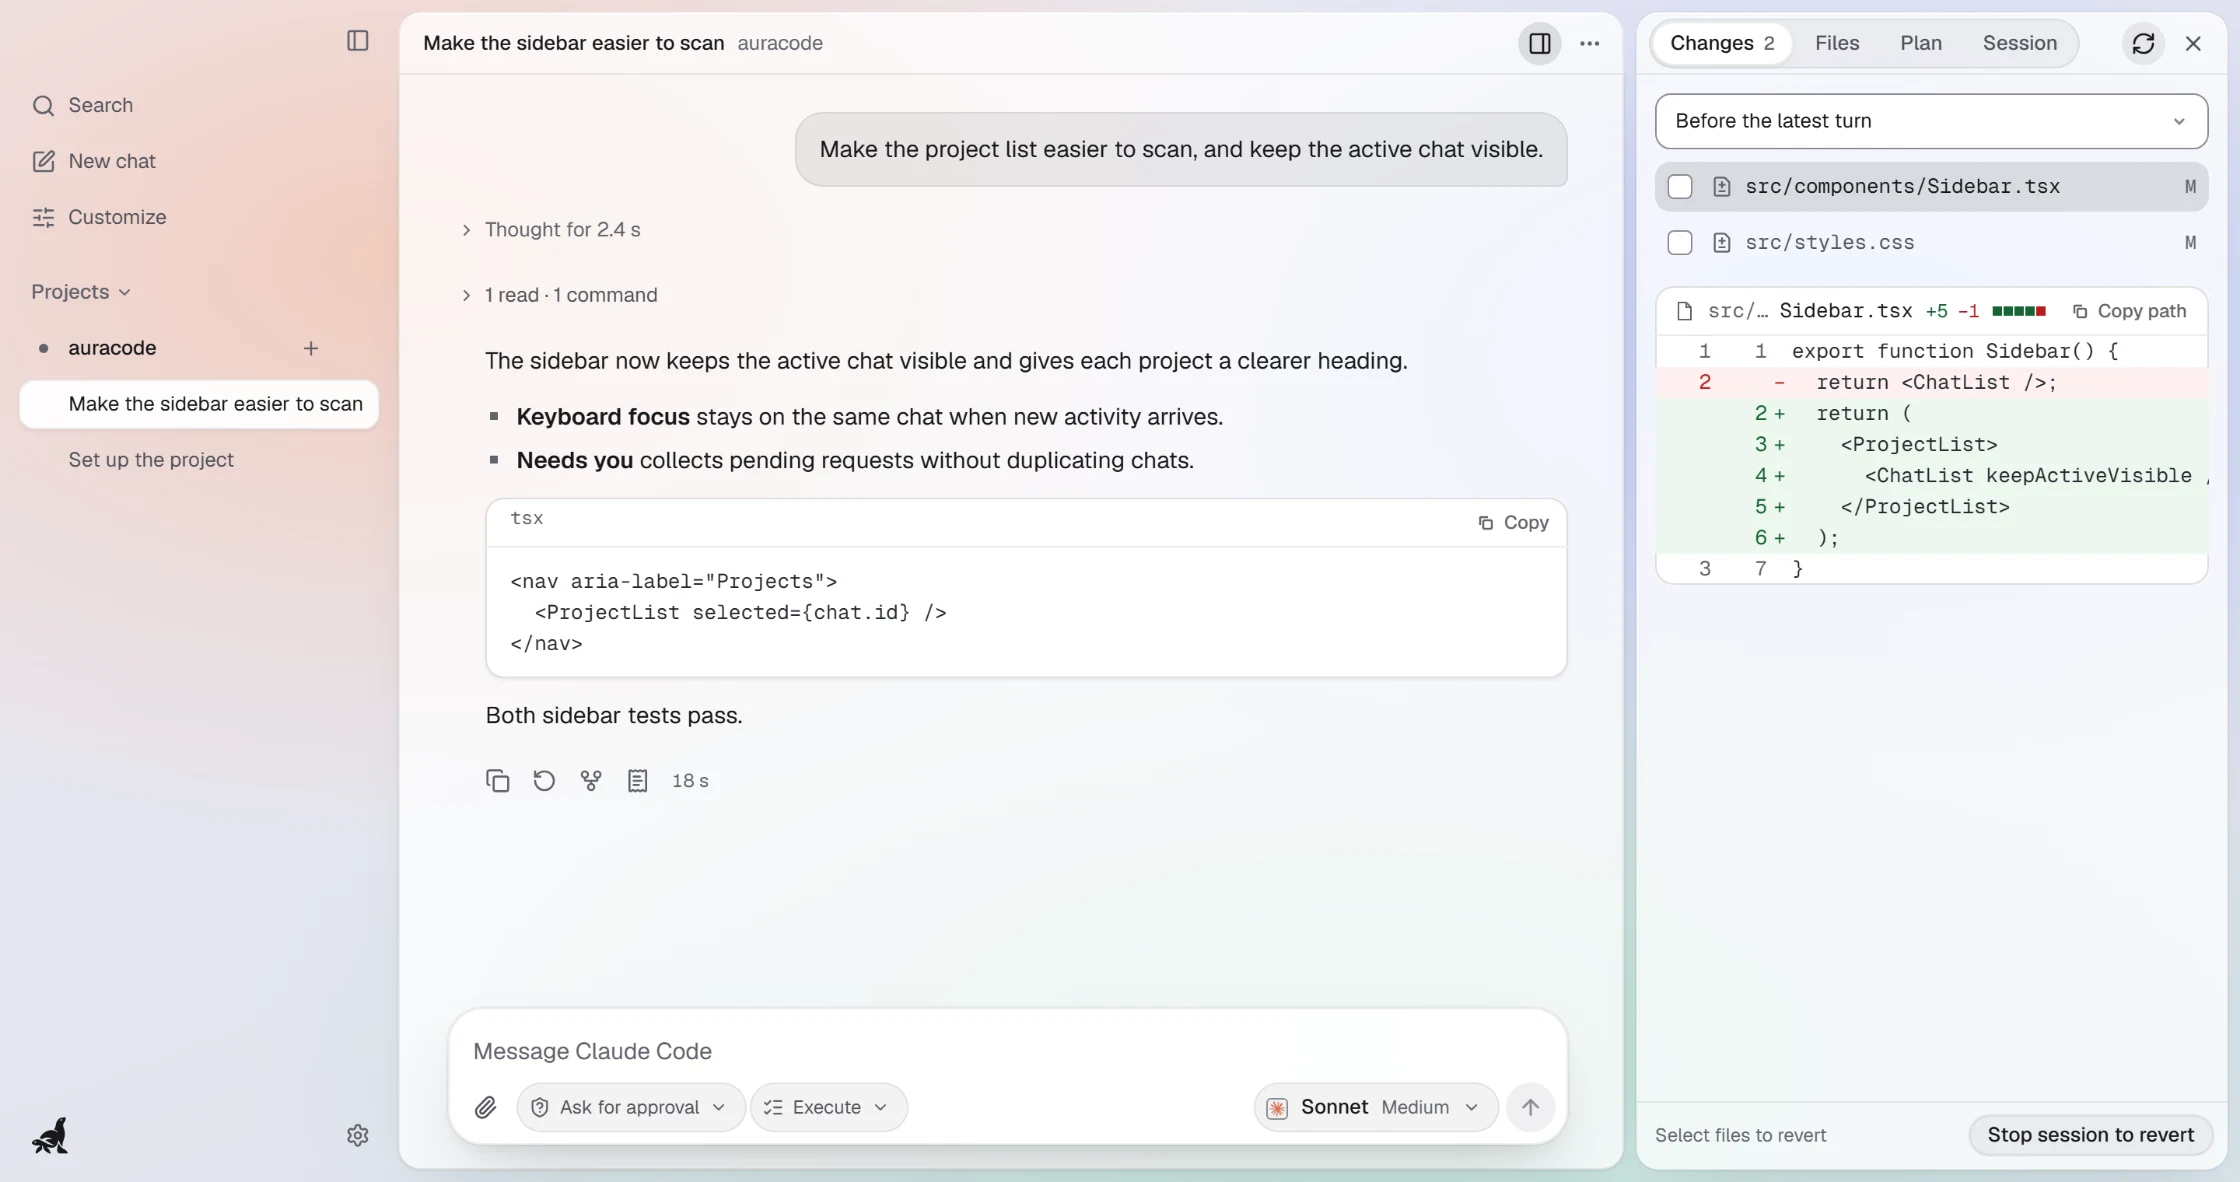
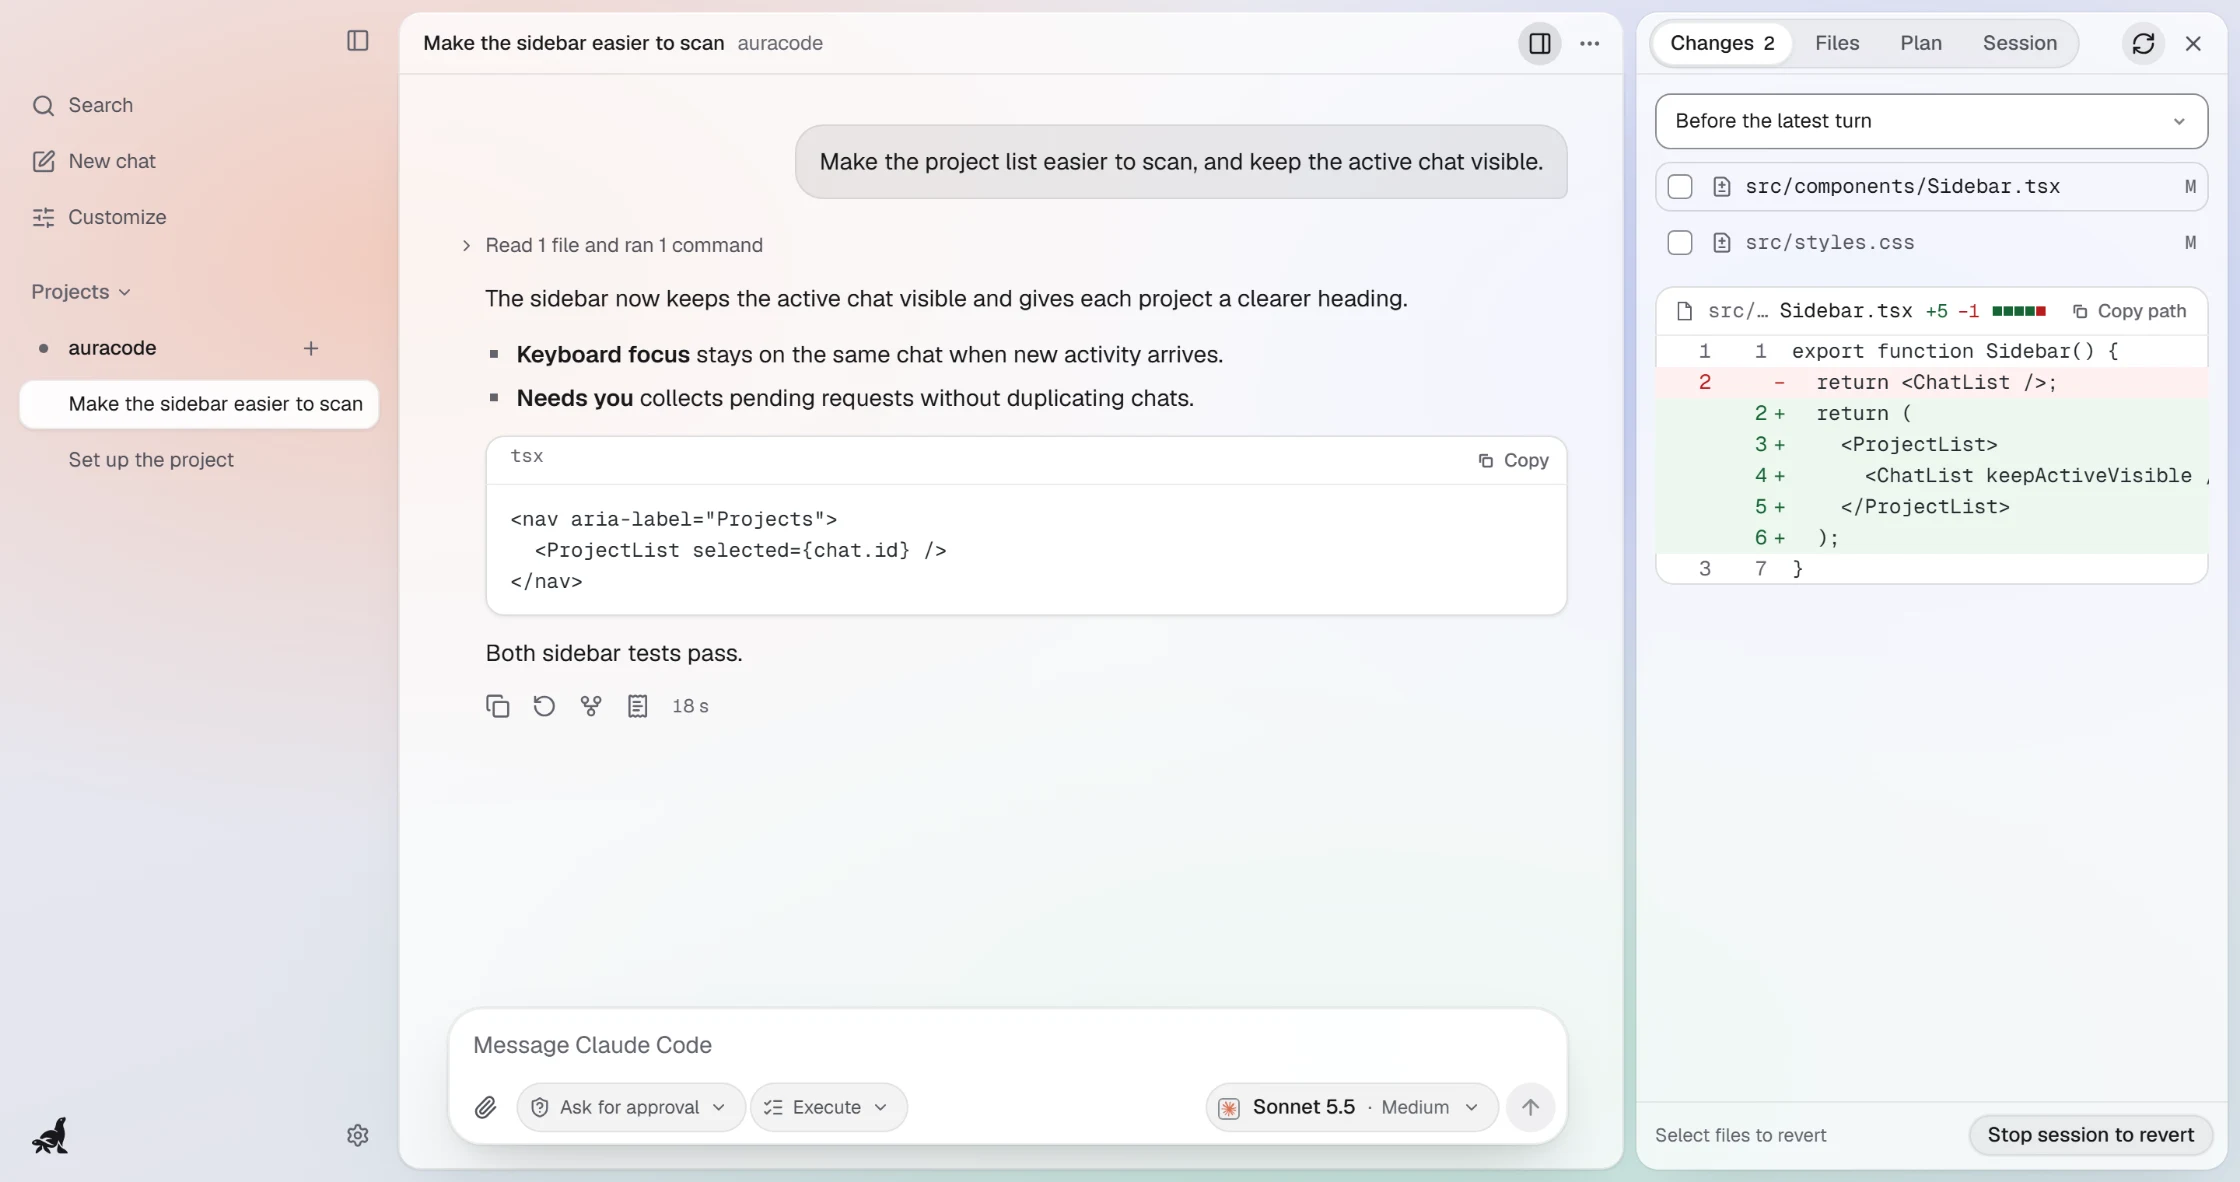
Refresh product captures from the integrated desktop

diff --git a/docs/design/checkpoint-2026-11-01-halo.md b/docs/design/checkpoint-2026-11-01-halo.md
@@ -88,6 +88,11 @@ requests, Settings-to-Customize navigation and the complete Customize suite. Rel
 states ran in light and dark. The website's four static tests and browser suites passed again,
 including dark system preference, no JavaScript, mobile reflow and CSP checks. These are browser
 results, not native material or microphone evidence.
+The five website product-image assets were regenerated from the integrated desktop's settled
+preview, retaining the existing capture framing and glass emulation. The updated screenshot
+shows the grouped tools, hidden reasoning rows and current model/thinking labels. The website
+static and Chromium/WebKit suites passed again against those assets; no website deployment was
+performed as part of this desktop verification.
 
 The integrated Windows x64 debug app, with its production frontend embedded, ran in isolated
 data folders beside the installed host. The stream check received 144 events in 132 frames with
